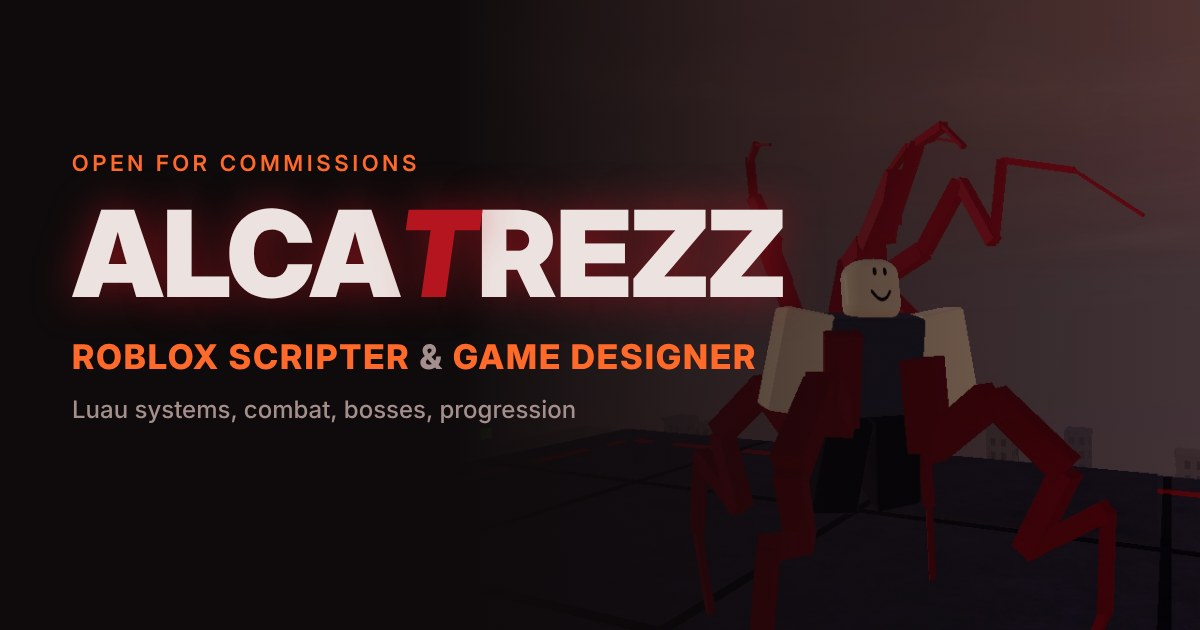
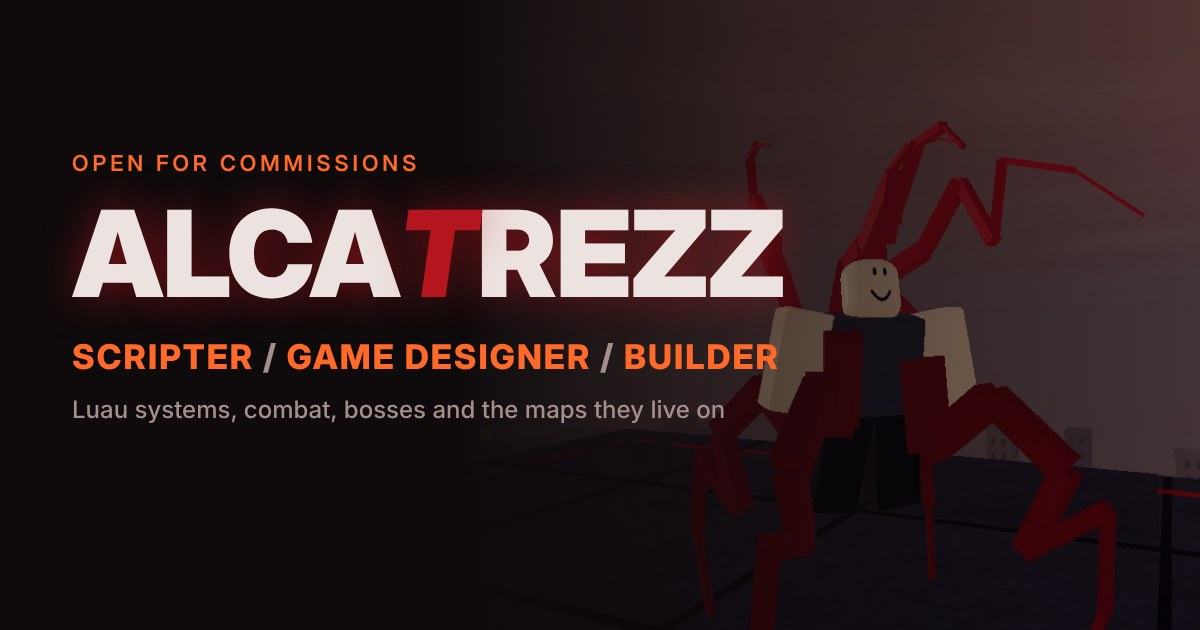
Add files via upload

Changed region(s): [[0.0617, 0.5429, 0.6475, 0.6032], [0.3392, 0.6333, 0.6167, 0.6635]]

diff --git a/index.html b/index.html
@@ -3,13 +3,13 @@
 <head>
 <meta charset="utf-8">
 <meta name="viewport" content="width=device-width, initial-scale=1, viewport-fit=cover">
-<meta name="description" content="Alcatrezz, Roblox scripter and game designer. Luau systems, combat, bosses and progression.">
+<meta name="description" content="Alcatrezz, Roblox scripter, game designer and builder. Luau systems, combat, bosses and the maps they live on.">
 <meta name="theme-color" content="#0f0b0c">
 <link rel="canonical" href="https://alcatrezz1.github.io/">
 <meta property="og:type" content="website">
 <meta property="og:site_name" content="Alcatrezz">
-<meta property="og:title" content="Alcatrezz, Roblox scripter and game designer">
-<meta property="og:description" content="Luau systems, combat, bosses and progression. Featured project: GRAFT, a tentacle brawler in closed alpha.">
+<meta property="og:title" content="Alcatrezz, Roblox scripter, game designer and builder">
+<meta property="og:description" content="Luau systems, combat, bosses and the maps they live on. Featured project: GRAFT, a tentacle brawler in closed alpha.">
 <meta property="og:url" content="https://alcatrezz1.github.io/">
 <meta property="og:image" content="https://alcatrezz1.github.io/img/og.jpg">
 <meta property="og:image:width" content="1200">
@@ -32,6 +32,7 @@
       <li><a class="link" href="#work">Work</a></li>
       <li><a class="link" href="#code">Scripting</a></li>
       <li><a class="link" href="#design">Design</a></li>
+      <li><a class="link" href="#building">Building</a></li>
       <li><a class="link" href="#contact">Contact</a></li>
     </ul>
   </div>
@@ -45,8 +46,8 @@
         <span class="chip">Roblox / Luau</span>
       </div>
       <h1>Alca<span class="tear">t</span>rezz</h1>
-      <p class="role">Roblox scripter <i>&amp;</i> game designer</p>
-      <p class="pitch">I design game systems and write them in Luau, from the first rule on paper to a live build in players' hands. Movement, combat, bosses, progression, saving, UI and onboarding.</p>
+      <p class="role">Scripter <i>/</i> game designer <i>/</i> builder</p>
+      <p class="pitch">I design Roblox games, script them in Luau and build the maps they're played on. From the first rule on paper to a live build in players' hands.</p>
       <div class="cta">
         <a class="btn primary" href="#work">See my work</a>
         <a class="btn" href="#contact">Contact</a>
@@ -63,8 +64,8 @@
   <div class="wrap">
     <div class="sec-head">
       <span class="label">What I do</span>
-      <h2>Two jobs, one person</h2>
-      <p>I can take a mechanic from idea to tuning without a hand-off in the middle. That means fewer lost details and faster iteration.</p>
+      <h2>Three jobs, one person</h2>
+      <p>I can take a feature from idea to code to the place it lives on the map, without a hand-off in the middle. Fewer lost details, faster iteration.</p>
     </div>
     <div class="disciplines">
       <article class="disc">
@@ -78,8 +79,6 @@
           <li>Saving with ProfileStore</li>
           <li>Reactive UI on Fusion 0.3</li>
           <li>Boss AI with telegraphed attacks</li>
-          <li>Multi-place games on shared Packages</li>
-          <li>PC and mobile input</li>
         </ul>
       </article>
       <article class="disc">
@@ -92,13 +91,24 @@
           <li>Progression: levels, perks, prestige</li>
           <li>Quests and daily loops</li>
           <li>Onboarding and tutorials with analytics</li>
-          <li>Level layout for vertical movement</li>
           <li>Monetization without pay-to-win</li>
-          <li>Running a closed alpha with testers</li>
+        </ul>
+      </article>
+      <article class="disc">
+        <span class="disc-k">03</span>
+        <h3>Building</h3>
+        <p>Maps that read well from far away and play well up close. Built for the way the game moves, not just for screenshots.</p>
+        <ul>
+          <li>Full maps from blockout to final detail</li>
+          <li>Level layout for climbing and vertical play</li>
+          <li>Modular city blocks and industrial sets</li>
+          <li>Boss arenas and zone transitions</li>
+          <li>Lighting, atmosphere and custom skies</li>
+          <li>Low-poly and stud-style props in Blender</li>
         </ul>
       </article>
     </div>
-    <p class="also"><span class="label">Also</span> Low-poly and stud-style modeling in Blender and Studio.</p>
+
   </div>
 </section>
 
@@ -107,19 +117,19 @@
     <div class="sec-head">
       <span class="label">Featured work</span>
       <h2>GRAFT</h2>
-      <p>A Roblox brawler where tentacles are your legs, your weapons and your health. Every hit tears off the tentacle it lands on. I made it alone: design, every script, the world and the live alpha.</p>
+      <p>A Roblox brawler where tentacles are your legs, your weapons and your health. Every hit tears off the tentacle it lands on. I made it alone: design, every script, the whole map and the live alpha.</p>
     </div>
     <div class="project">
       <div class="plates">
-        <figure class="plate p-wide"><button type="button" data-cap="The arena: an infected city with red growth. Every wall, roof and ceiling can be climbed."><img src="img/arena.jpg" alt="Wide view of GRAFT's infected city arena" loading="lazy"></button><figcaption><b>Arena</b>Every surface is climbable.</figcaption></figure>
+        <figure class="plate p-wide"><button type="button" data-cap="In game: the HUD counts tentacles, not hit points. Level, prestige and tentacle cap on top, the active quest on the right."><img src="img/hud.jpg" alt="GRAFT gameplay with the orange HUD" loading="lazy"></button><figcaption><b>In game</b>The HUD counts tentacles, not HP.</figcaption></figure>
         <figure class="plate p-tall"><button type="button" data-cap="The Grafter: quest giver and the first prestige fight."><img src="img/grafter.jpg" alt="The Grafter, a pale figure fused into a column" loading="lazy"></button><figcaption><b>The Grafter</b>Keeper and prestige boss.</figcaption></figure>
-        <figure class="plate acid p-third"><button type="button" data-cap="The Spillway: a second zone with hollow pipes you climb into and acid that only poison legs survive."><img src="img/spillway.jpg" alt="The Spillway waste station" loading="lazy"></button><figcaption><b>Spillway</b>Second zone, new rules.</figcaption></figure>
         <figure class="plate p-third"><button type="button" data-cap="The Weaver: a spider boss that leaps with a landing circle shown first."><img src="img/weaver.jpg" alt="The Weaver spider boss" loading="lazy"></button><figcaption><b>The Weaver</b>Telegraphed leap attack.</figcaption></figure>
         <figure class="plate acid p-third"><button type="button" data-cap="Sludge Boss: sits in acid, so you need poison legs to fight it."><img src="img/sludge.jpg" alt="The Sludge Boss in an acid basin" loading="lazy"></button><figcaption><b>Sludge Boss</b>Gated by your build.</figcaption></figure>
+        <figure class="plate p-third"><button type="button" data-cap="The player creature: one shared body, so skins can be sold without pay-to-win."><img src="img/creature.jpg" alt="The player creature with red tentacles" loading="lazy"></button><figcaption><b>The Graft</b>One body, skins later.</figcaption></figure>
       </div>
       <aside class="proj-meta">
         <dl>
-          <div><dt>Role</dt><dd>Solo: design, scripting, world, live ops</dd></div>
+          <div><dt>Role</dt><dd>Solo: design, scripting, building, live ops</dd></div>
           <div><dt>Status</dt><dd>Closed alpha with testers</dd></div>
           <div><dt>Content</dt><dd>2 zones, 4 bosses, 6 skills, prestige, tutorial place</dd></div>
           <div><dt>Stack</dt><dd>Luau, Fusion 0.3, ProfileStore, Packages</dd></div>
@@ -288,6 +298,28 @@ end</code></pre>
   </div>
 </section>
 
+<section id="building">
+  <div class="wrap">
+    <div class="sec-head">
+      <span class="label">Building</span>
+      <h2>The map is mine too</h2>
+      <p>Every part of GRAFT's world is hand-built in Studio. It isn't perfect, but it does its job: each zone has its own mood, it reads clearly from a distance, and every wall, roof and pipe is built to be climbed.</p>
+    </div>
+    <div class="plates">
+      <figure class="plate p-wide"><button type="button" data-cap="The Arena: a dead city grown over with red flesh. Windows are built from parts, not textures: some lit, some broken, some boarded up. Bridges link the roofs for vertical routes."><img src="img/arena.jpg" alt="Wide view of the infected city arena with the Nest tower in the distance" loading="lazy"></button><figcaption><b>The Arena</b>A dead city grown over with red flesh.</figcaption></figure>
+      <figure class="plate p-tall"><button type="button" data-cap="The Nest: the hub on top of a tower held up by growths. Safe zone, quest giver, leaderboard, and room for a future cosmetics shop."><img src="img/nest.jpg" alt="The Nest hub tower wrapped in red tentacles" loading="lazy"></button><figcaption><b>The Nest</b>Hub tower and safe zone.</figcaption></figure>
+      <figure class="plate acid p-half"><button type="button" data-cap="The Spillway: a toxic waste station. The big pipes are faceted to match the blocky style, rusted, broken and leaking. They're hollow: climb in through the large holes and wade through poison inside."><img src="img/spillway.jpg" alt="The toxic waste station with large rusty pipes and glowing acid leaks" loading="lazy"></button><figcaption><b>The Spillway</b>Hollow pipes you can crawl inside.</figcaption></figure>
+      <figure class="plate acid p-half"><button type="button" data-cap="The Distiller's tower: the second zone's hub, built around a keeper who later becomes a boss fight in his own flooded tank."><img src="img/distiller.jpg" alt="The Distiller standing in his tank on top of the station" loading="lazy"></button><figcaption><b>The Distiller's tower</b>Second hub and boss stage.</figcaption></figure>
+    </div>
+    <div class="map-notes">
+      <div><b>2</b><span>zones of 600 by 600 studs, joined by one walk-through culvert</span></div>
+      <div><b>11k+</b><span>hand-placed parts of decor and structures</span></div>
+      <div><b>2</b><span>keeper arenas, copied so several trials run at once</span></div>
+      <div><b>1</b><span>separate tutorial city, built as its own place</span></div>
+    </div>
+  </div>
+</section>
+
 <section id="process">
   <div class="wrap process">
     <div class="sec-head" style="margin-bottom:0">
@@ -310,8 +342,8 @@ end</code></pre>
 <section id="contact" class="contact" style="border-bottom:0">
   <div class="wrap">
     <span class="label">Open to work</span>
-    <h2>Got a game<br>that needs <span>systems?</span></h2>
-    <p style="color:var(--muted);margin-top:16px;max-width:52ch">Scripting, game design, or both at once. Message me on Discord.</p>
+    <h2>Got a game<br>that needs <span>building?</span></h2>
+    <p style="color:var(--muted);margin-top:16px;max-width:52ch">Scripting, game design, building, or all of it at once. Message me on Discord.</p>
     <div class="handle">
       <div class="box"><span class="label">Discord</span><b id="discord">Alcatrezz</b></div>
       <button class="btn primary" id="copy" type="button">Copy handle</button>
@@ -322,7 +354,7 @@ end</code></pre>
 </section>
 
 <footer>
-  <div class="wrap"><span>© 2026 Alcatrezz</span><span>Screenshots and code from GRAFT · <a href="https://github.com/alcatrezz1" target="_blank" rel="noopener">GitHub</a></span></div>
+  <div class="wrap"><span>© 2026 Alcatrezz</span><span>Screenshots, map and code from GRAFT · <a href="https://github.com/alcatrezz1" target="_blank" rel="noopener">GitHub</a></span></div>
 </footer>
 
 <div class="lightbox" id="lightbox" hidden>

diff --git a/style.css b/style.css
@@ -277,3 +277,18 @@ a.btn { text-decoration: none; display: inline-block; }
 a.box.gh { text-decoration: none; color: var(--fg); }
 a.box.gh:hover { border-color: var(--ember); }
 a.box.gh b { user-select: auto; }
+
+/* three disciplines + map notes */
+.disciplines { grid-template-columns: repeat(3, minmax(0, 1fr)); }
+.disc h3 { font-size: clamp(1.5rem, 2.6vw, 2rem); }
+.map-notes { display: grid; grid-template-columns: repeat(4, minmax(0, 1fr)); border: 1px solid var(--line); background: var(--panel); margin-top: 10px; }
+.map-notes div { padding: 16px 18px; border-right: 1px solid var(--line); display: grid; gap: 6px; align-content: start; }
+.map-notes div:last-child { border-right: 0; }
+.map-notes b { font: 700 1.9rem/1 var(--f-display); font-variant-numeric: tabular-nums; }
+.map-notes span { color: var(--muted); font-size: 0.88rem; line-height: 1.35; }
+@media (max-width: 900px) {
+  .disciplines { grid-template-columns: minmax(0, 1fr); }
+  .map-notes { grid-template-columns: repeat(2, minmax(0, 1fr)); }
+  .map-notes div:nth-child(2) { border-right: 0; }
+  .map-notes div:nth-child(-n+2) { border-bottom: 1px solid var(--line); }
+}
